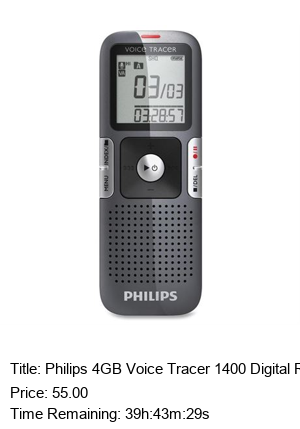
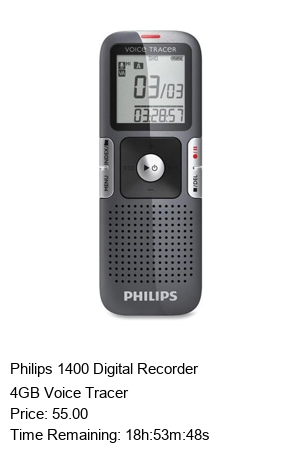
all non-user related functions completed

diff --git a/CS50w/Project_Commerce/auctions/templates/auctions/index.html b/CS50w/Project_Commerce/auctions/templates/auctions/index.html
@@ -4,12 +4,12 @@
 
 
 {% block body %}
-{% for category, data_list in combined_data.items %}
-    <h3>{{ category|title }}</h3>
-    {% for image_path, item_number in data_list %}
-        <a href="{% url 'bidding' item_number %}" style="text-decoration: none">
-            <img src="{{ MEDIA_URL }}/{{ image_path }}" alt="Auction Image" style="cursor: pointer" target="_blank">
-        </a>
-    {% endfor %}
+
+<h2>Active Listing</h2>
+{% for image_path,item_number in active_list %}
+    <a href="{% url 'bidding' item_number %}" style="text-decoration: none">
+        <img src="{{ MEDIA_URL }}/{{ image_path }}" alt="Auction Image" style="cursor: pointer" target="_blank">
+    </a>
 {% endfor %}
+
 {% endblock %}

diff --git a/Git/bash_command.html b/Git/bash_command.html
@@ -31,6 +31,7 @@
                 <li>mkdir xxname 创建新文件夹xxname</li>
                 <li>git mv xxfile xxfolder/ 把xxfile移动到xxfolder里</li>
                 <li>../ ../../ link里的文件地址上层文件夹或上上层文件夹</li>
+                <li>html里用ctrl+/时里面带{{}} 或者{{%%}}的部分仍然有效，如果要临时注销某些代码用{% comment %}要注销的部分{% endcomment %}</li>
             </ul>
             <li>Repository</li>
             <ul>

diff --git a/CS50w/Project_Commerce/auctions/templates/auctions/bidding.html b/CS50w/Project_Commerce/auctions/templates/auctions/bidding.html
@@ -30,7 +30,15 @@
         <h4>Description</h4>
             {% for obj in auctions %}
             <tr>
-                <td>{{ obj.description }}</td> 
+                <td>{{ obj.short_description }}</td> 
+            </tr>
+            {% endfor %}
+    </div>
+    <div>
+        <h4>Details</h4>
+            {% for obj in auctions %}
+            <tr>
+                <td>{{ obj.details }}</td> 
             </tr>
             {% endfor %}
     </div>

diff --git a/CS50w/Project_Commerce/auctions/util.py b/CS50w/Project_Commerce/auctions/util.py
@@ -1,4 +1,5 @@
 import glob
+import textwrap
 from django.core.files.storage import default_storage
 from django.db.models.signals import post_save, post_delete
 from django.dispatch import receiver
@@ -88,6 +89,9 @@ def index_image(item_number):
     except AuctionList.DoesNotExist:
         return None
     
+    max_width = 280
+    wrapped_short_description = textwrap.fill(auction_data.short_description, width=max_width).replace('\n', ' ')
+
     media_folder_path = os.path.join(settings.MEDIA_ROOT, 'items', str(item_number))
     image_files = glob.glob(os.path.join(media_folder_path, '*.*'))
     
@@ -103,16 +107,16 @@ def index_image(item_number):
     current_time = datetime.now()
     remaining_time = end_time - current_time
     formattd_remaining_time = format_timedelta(remaining_time)
-    texts = [f"Title: {auction_data.title}", f"Price: {auction_data.price}", f"Time Remaining: {formattd_remaining_time}"]
+    texts = [f"{auction_data.title}", wrapped_short_description, f"Price: {auction_data.price}", f"Time Remaining: {formattd_remaining_time}"]
 
     y_position = 10
-    x_position = 10  # Starting x position
+    x_position = 10  
 
     for text in texts:
         for c in text:
             # Get the bounding box for the current character
             draw.text((x_position, y_position), c, fill="black", font=font)
-            x_position += draw.textlength(c, font=font)  # Move x position for the next character
+            x_position += draw.textlength(c, font=font)  
         
         
         y_position += draw.textbbox((x_position, y_position), text, font=font)[3] - draw.textbbox((x_position, y_position), text, font=font)[1] + 10

diff --git a/CS50w/Project_Commerce/auctions/views.py b/CS50w/Project_Commerce/auctions/views.py
@@ -12,23 +12,21 @@ from django.utils import timezone
 # Create your views here.
 
 def index(request):
-    categories = ['fashion', 'electronics', 'accessories', 'others']
-    combined_data = {}
+    
+    instances = AuctionList.objects.filter(end_time__gt=timezone.now())
+    active_list = []
 
-    for category in categories:
-        category_data = AuctionList.objects.filter(category=category)
-        image_paths = []
-        item_numbers = []
-        for item in category_data:
-            image_path = index_image(item.item_number)
-            if image_path:
-                image_paths.append(image_path)
-                item_numbers.append(item.item_number)
-        combined_data[category] = list(zip(image_paths, item_numbers))
+    for instance in instances:
+        image_path = index_image(instance.item_number)
+        item_number = instance.item_number
+        instance_tuple = (image_path, item_number)
+        active_list.append(instance_tuple)
 
     return render(request, "auctions/index.html", {
-        'combined_data': combined_data
+        'active_list': active_list
         })
+
+
 
 def sell(request):
     if request.method == "POST":

diff --git a/CS50w/Project_Commerce/auctions/migrations/0002_rename_description_auctionlist_details_and_more.py b/CS50w/Project_Commerce/auctions/migrations/0002_rename_description_auctionlist_details_and_more.py
@@ -1,0 +1,30 @@
+# Generated by Django 5.0.4 on 2024-05-01 01:34
+
+import datetime
+from django.db import migrations, models
+
+
+class Migration(migrations.Migration):
+
+    dependencies = [
+        ('auctions', '0001_initial'),
+    ]
+
+    operations = [
+        migrations.RenameField(
+            model_name='auctionlist',
+            old_name='description',
+            new_name='details',
+        ),
+        migrations.AddField(
+            model_name='auctionlist',
+            name='image_url',
+            field=models.URLField(blank=True, null=True),
+        ),
+        migrations.AddField(
+            model_name='auctionlist',
+            name='short_description',
+            field=models.CharField(default=datetime.datetime(2024, 5, 1, 1, 34, 48, 562511, tzinfo=datetime.timezone.utc), max_length=64),
+            preserve_default=False,
+        ),
+    ]

diff --git a/CS50w/Project_Commerce/auctions/forms.py b/CS50w/Project_Commerce/auctions/forms.py
@@ -21,10 +21,12 @@ class MultipleFileField(forms.FileField):
 class SellList(forms.ModelForm):
     class Meta:
         model = AuctionList
-        fields = ['images','category','title', 'description', 'price']
+        fields = ['images', 'image_url', 'category','title', 'short_description', 'details', 'price']
     
-    images = MultipleFileField(label='Upload Images', required=True)
+    images = MultipleFileField(label='Upload Images', required=True, help_text='Please upload at least 1 image')
+    image_url = forms.URLField(label='Image URL', required=False, help_text="Enter the URL of your image")
     category = forms.ChoiceField(choices=AuctionList.category_choices)
+    short_description = forms.CharField(widget=forms.TextInput(attrs={'placeholder': 'No more than 30 characters'}))
 
     
     def clean_image(self):

diff --git a/CS50w/Project_Commerce/auctions/models.py b/CS50w/Project_Commerce/auctions/models.py
@@ -7,7 +7,8 @@ class AuctionList(models.Model):
         managed = True
         
     title = models.CharField(max_length=64)
-    description = models.TextField()
+    short_description = models.CharField(max_length=64)
+    details = models.TextField()
     price = models.DecimalField(max_digits=10, decimal_places=2)
     category_choices = [
         ('fashion', 'Fashion'),
@@ -20,6 +21,7 @@ class AuctionList(models.Model):
     category = models.CharField(max_length=20, choices=category_choices)
     end_time = models.DateTimeField()
     item_number = models.CharField(max_length=64, primary_key=True)
+    image_url = models.URLField(null=True, blank=True)
     
 
 class Bidding(models.Model):
